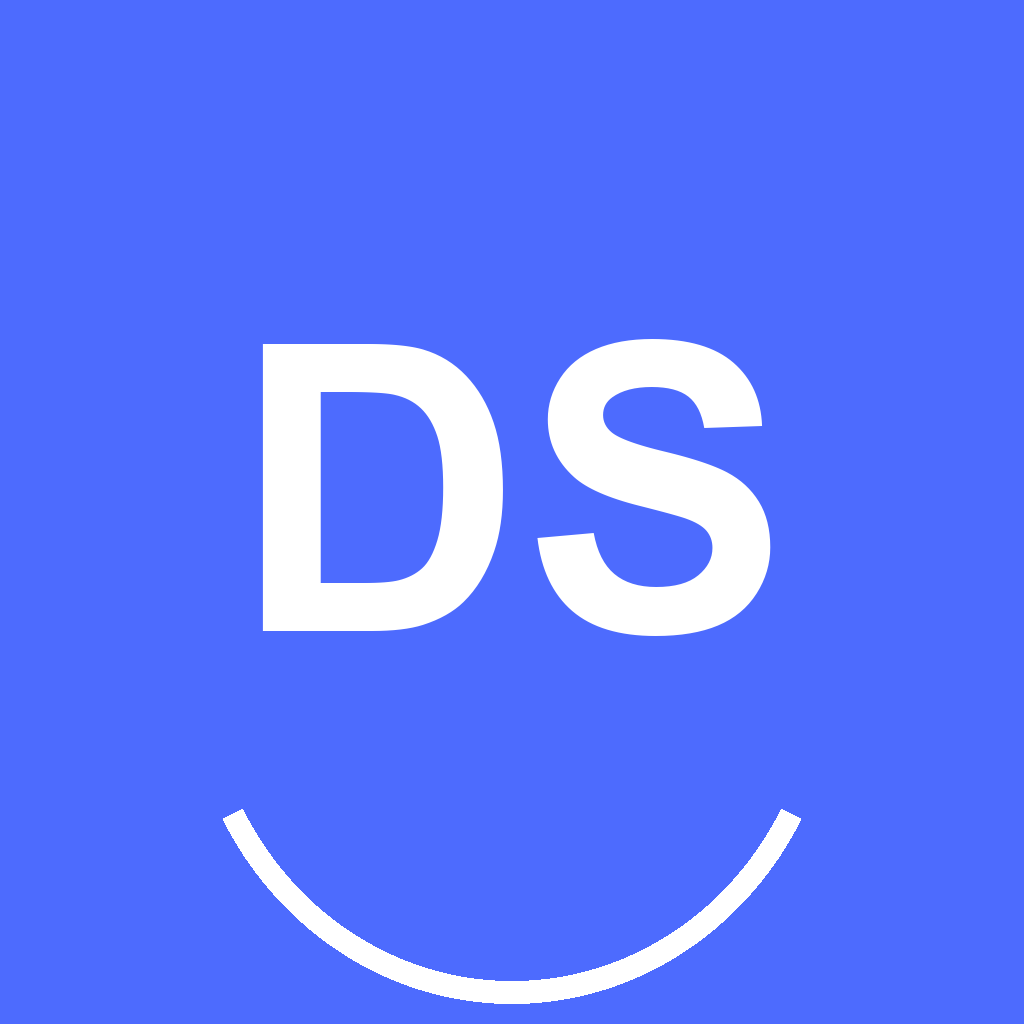
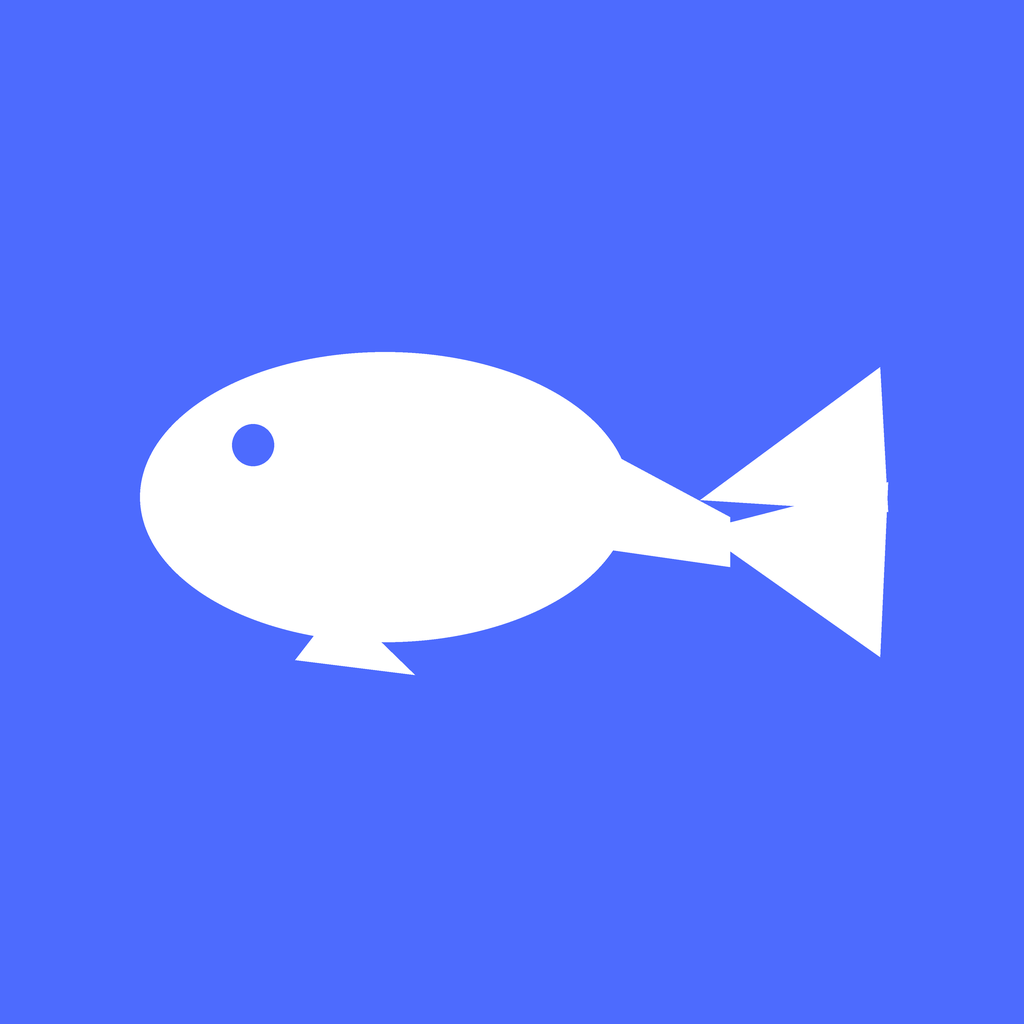
feat: 图标改为几何鲸鱼形象
gen-icon.py 重写：椭圆身体+尾柄+双尾鳍+胸鳍+眼睛的白色剪影，
4x 超采样 LANCZOS 缩回；逐点像素验证通过
- icon.png 蓝底鲸鱼；adaptive-icon.png 前景 196-831 落在安全区
- whale.png 透明底白鲸，App 欢迎页/引导页徽章由 DS 文字换为鲸鱼图

Changed region(s): [[0.125, 0.3125, 0.875, 0.6562], [0.2188, 0.7812, 0.7812, 1.0]]

diff --git a/app/chat/[id].tsx b/app/chat/[id].tsx
@@ -5,7 +5,7 @@
 import { router, useFocusEffect, useLocalSearchParams } from 'expo-router';
 import React, { useCallback, useEffect, useMemo, useState } from 'react';
 import {
-  Alert, FlatList, KeyboardAvoidingView, Pressable, StyleSheet, Text, View,
+  Alert, FlatList, Image, KeyboardAvoidingView, Pressable, StyleSheet, Text, View,
 } from 'react-native';
 import { useSafeAreaInsets } from 'react-native-safe-area-context';
 import * as Clipboard from 'expo-clipboard';
@@ -185,7 +185,11 @@ export default function ChatScreen() {
         {empty ? (
           <View style={[styles.welcome, { backgroundColor: colors.background }]}>
             <View style={styles.welcomeBadge}>
-              <Text style={styles.welcomeMark}>DS</Text>
+              <Image
+                source={require('../../assets/whale.png')}
+                style={{ width: 52, height: 52 }}
+                resizeMode="contain"
+              />
             </View>
             <Text style={[styles.welcomeTitle, { color: colors.text }]}>你好，我是 DeepSeek</Text>
             <Text style={[styles.welcomeSubtitle, { color: colors.textSecondary }]}>

diff --git a/app/onboarding.tsx b/app/onboarding.tsx
@@ -9,7 +9,7 @@ import * as WebBrowser from 'expo-web-browser';
 import * as Clipboard from 'expo-clipboard';
 import React, { useState } from 'react';
 import {
-  ActivityIndicator, Alert, KeyboardAvoidingView, Platform, Pressable,
+  ActivityIndicator, Alert, Image, KeyboardAvoidingView, Platform, Pressable,
   ScrollView, StyleSheet, Text, TextInput, View,
 } from 'react-native';
 import { useSafeAreaInsets } from 'react-native-safe-area-context';
@@ -99,7 +99,11 @@ export default function Onboarding() {
       {step === 'welcome' && (
         <View style={styles.center}>
           <View style={styles.logoBadge}>
-            <Text style={styles.logoText}>DS</Text>
+            <Image
+              source={require('../assets/whale.png')}
+              style={{ width: 54, height: 54 }}
+              resizeMode="contain"
+            />
           </View>
           <Text style={[styles.h1, { color: colors.text }]}>DeepSeek Lite</Text>
           <Text style={[styles.subtitle, { color: colors.textSecondary }]}>

diff --git a/images.d.ts b/images.d.ts
@@ -1,0 +1,1 @@
+declare module '*.png';

diff --git a/scripts/gen-icon.py b/scripts/gen-icon.py
@@ -1,34 +1,71 @@
-"""生成应用图标：蓝底白 DS 徽标 + 水波弧线（与 App 内引导页徽章同款语言）"""
-from PIL import Image, ImageDraw, ImageFont
+"""生成应用图标：DeepSeek 蓝底 + 白色几何鲸鱼剪影（4x 超采样抗锯齿）
 
-BLUE = (77, 107, 254, 255)  # #4D6BFE
+产出:
+  assets/icon.png          全出血方形图标（蓝底 + 鲸鱼）
+  assets/adaptive-icon.png 安卓自适应图标前景（透明底，鲸鱼在安全区内）
+  assets/whale.png         透明底白色鲸鱼（App 内徽章用 Image 渲染）
+"""
+from PIL import Image, ImageDraw
+
+BLUE = (77, 107, 254, 255)   # #4D6BFE
 WHITE = (255, 255, 255, 255)
-FONT = r"C:\Windows\Fonts\arialbd.ttf"
+SS = 4                        # 超采样倍数
+SIZE = 1024
+CX = CY = 512
+
+# 基准坐标（1024 画布，鲸鱼朝右）
+BODY = (140, 352, 630, 642)                              # 椭圆身体，头部在左
+STOCK = [(590, 442), (730, 517), (730, 567), (590, 547)]  # 尾柄（梯形）
+FLUKE_UP = [(700, 500), (880, 367), (888, 512)]           # 上尾鳍
+FLUKE_DOWN = [(700, 530), (880, 657), (888, 482)]         # 下尾鳍
+FIN = [(340, 602), (415, 675), (295, 660)]                # 胸鳍
+EYE = (253, 445)                                          # 眼睛中心
+EYE_R = 21
 
 
-def draw_badge(size, font_size, bg=None, transparent=False):
-    img = Image.new("RGBA", (size, size), (0, 0, 0, 0) if transparent else bg)
+def draw_whale(size, scale=1.0, bg=None):
+    """返回 RGBA 图。基准坐标 → 以画布中心缩放 → 放大 SS 倍绘制 → 缩回。"""
+    S = size * SS
+
+    def P(pts):
+        # 基准(1024系) → 中心缩放 → SS 空间
+        return [
+            ((CX + (x - CX) * scale) * SS, (CY + (y - CY) * scale) * SS)
+            for x, y in pts
+        ]
+
+    img = Image.new("RGBA", (S, S), (0, 0, 0, 0) if bg is None else bg)
     d = ImageDraw.Draw(img)
-    f = ImageFont.truetype(FONT, font_size)
-    text = "DS"
-    l, t, r, b = d.textbbox((0, 0), text, font=f)
-    w, h = r - l, b - t
-    x, y = (size - w) / 2 - l, (size - h) / 2 - t - font_size * 0.06
-    d.text((x, y), text, font=f, fill=WHITE)
-    # 下方一道水波弧线
-    pad = size * 0.18
-    d.arc(
-        [pad, size * 0.30, size - pad, size * 0.98],
-        start=28, end=152, fill=WHITE, width=max(6, size // 44),
-    )
-    return img
+
+    # 尾柄与尾鳍先画，身体覆盖接缝
+    d.polygon(P(STOCK), fill=WHITE)
+    d.polygon(P(FLUKE_UP), fill=WHITE)
+    d.polygon(P(FLUKE_DOWN), fill=WHITE)
+    (x0, y0), (x1, y1) = P([(BODY[0], BODY[1]), (BODY[2], BODY[3])])
+    d.ellipse([x0, y0, x1, y1], fill=WHITE)
+    d.polygon(P(FIN), fill=WHITE)
+
+    # 眼睛：蓝底图直接画背景色圆；透明图用 alpha 挖孔
+    (ex, ey), = P([EYE])
+    r = EYE_R * SS * scale
+    if bg is None:
+        mask = Image.new("L", (S, S), 0)
+        ImageDraw.Draw(mask).ellipse([ex - r, ey - r, ex + r, ey + r], fill=255)
+        alpha = Image.composite(Image.new("L", (S, S), 0), img.getchannel("A"), mask)
+        img.putalpha(alpha)
+    else:
+        d.ellipse([ex - r, ey - r, ex + r, ey + r], fill=BLUE)
+
+    return img.resize((size, size), Image.LANCZOS)
 
 
 if __name__ == "__main__":
     import os
     os.makedirs("assets", exist_ok=True)
-    # 商店/列表用全出血方形图标：蓝底白 DS
-    draw_badge(1024, 400, BLUE).save(os.path.join("assets", "icon.png"))
-    # 自适应图标前景：透明底，内容落在中心安全区（背景色由系统叠 #4D6BFE）
-    draw_badge(1024, 330, transparent=True).save(os.path.join("assets", "adaptive-icon.png"))
-    print("icons saved")
+    # 全出血图标
+    draw_whale(SIZE, scale=1.0, bg=BLUE).save(os.path.join("assets", "icon.png"))
+    # 自适应前景：鲸鱼缩到安全区（内容横向约 140-888，0.85 后约 196-829 ⊂ 174-849）
+    draw_whale(SIZE, scale=0.85).save(os.path.join("assets", "adaptive-icon.png"))
+    # App 内徽章用透明鲸鱼
+    draw_whale(SIZE, scale=0.92).save(os.path.join("assets", "whale.png"))
+    print("whale icons saved")
